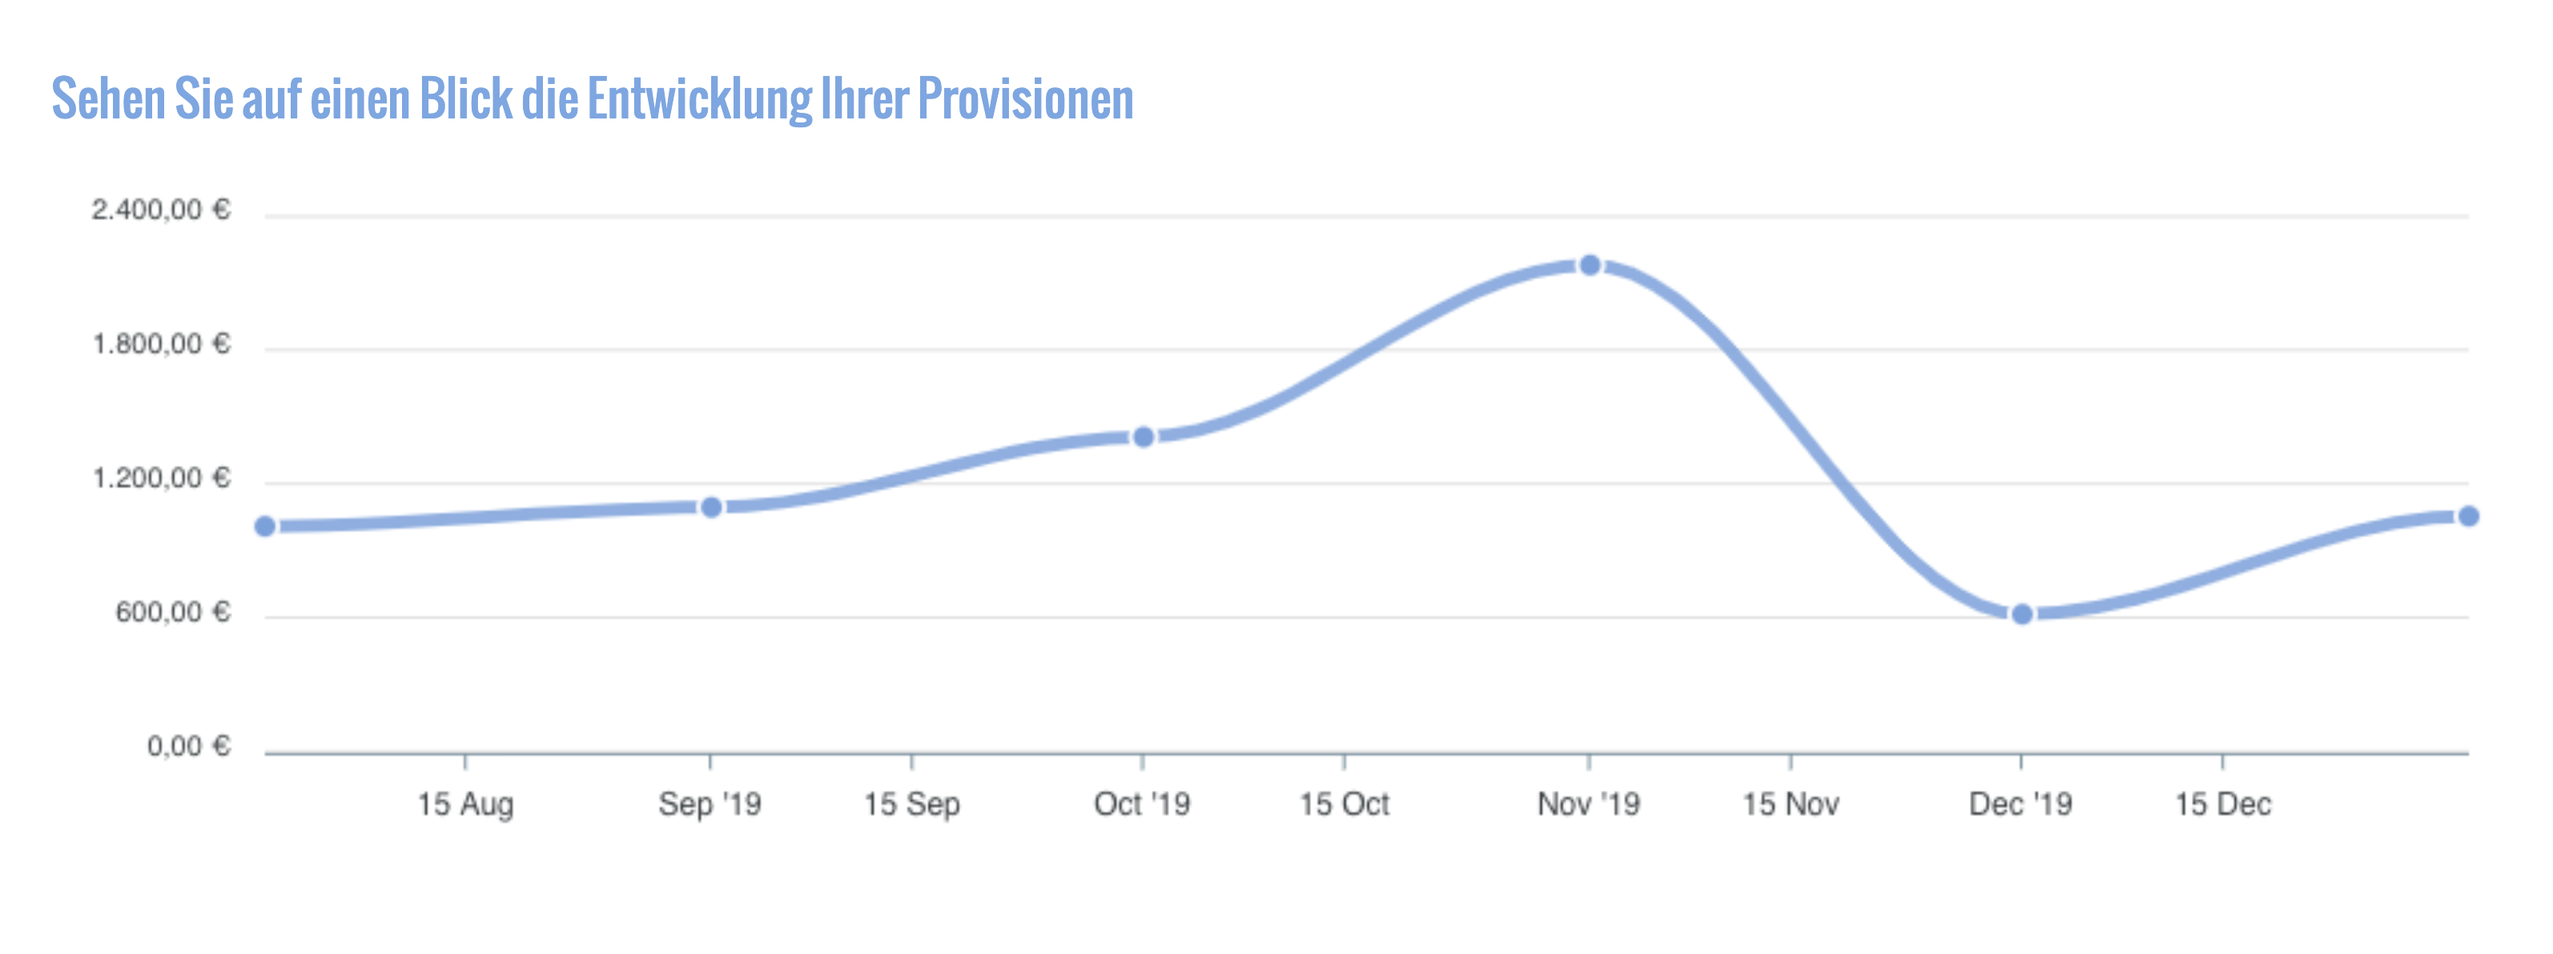
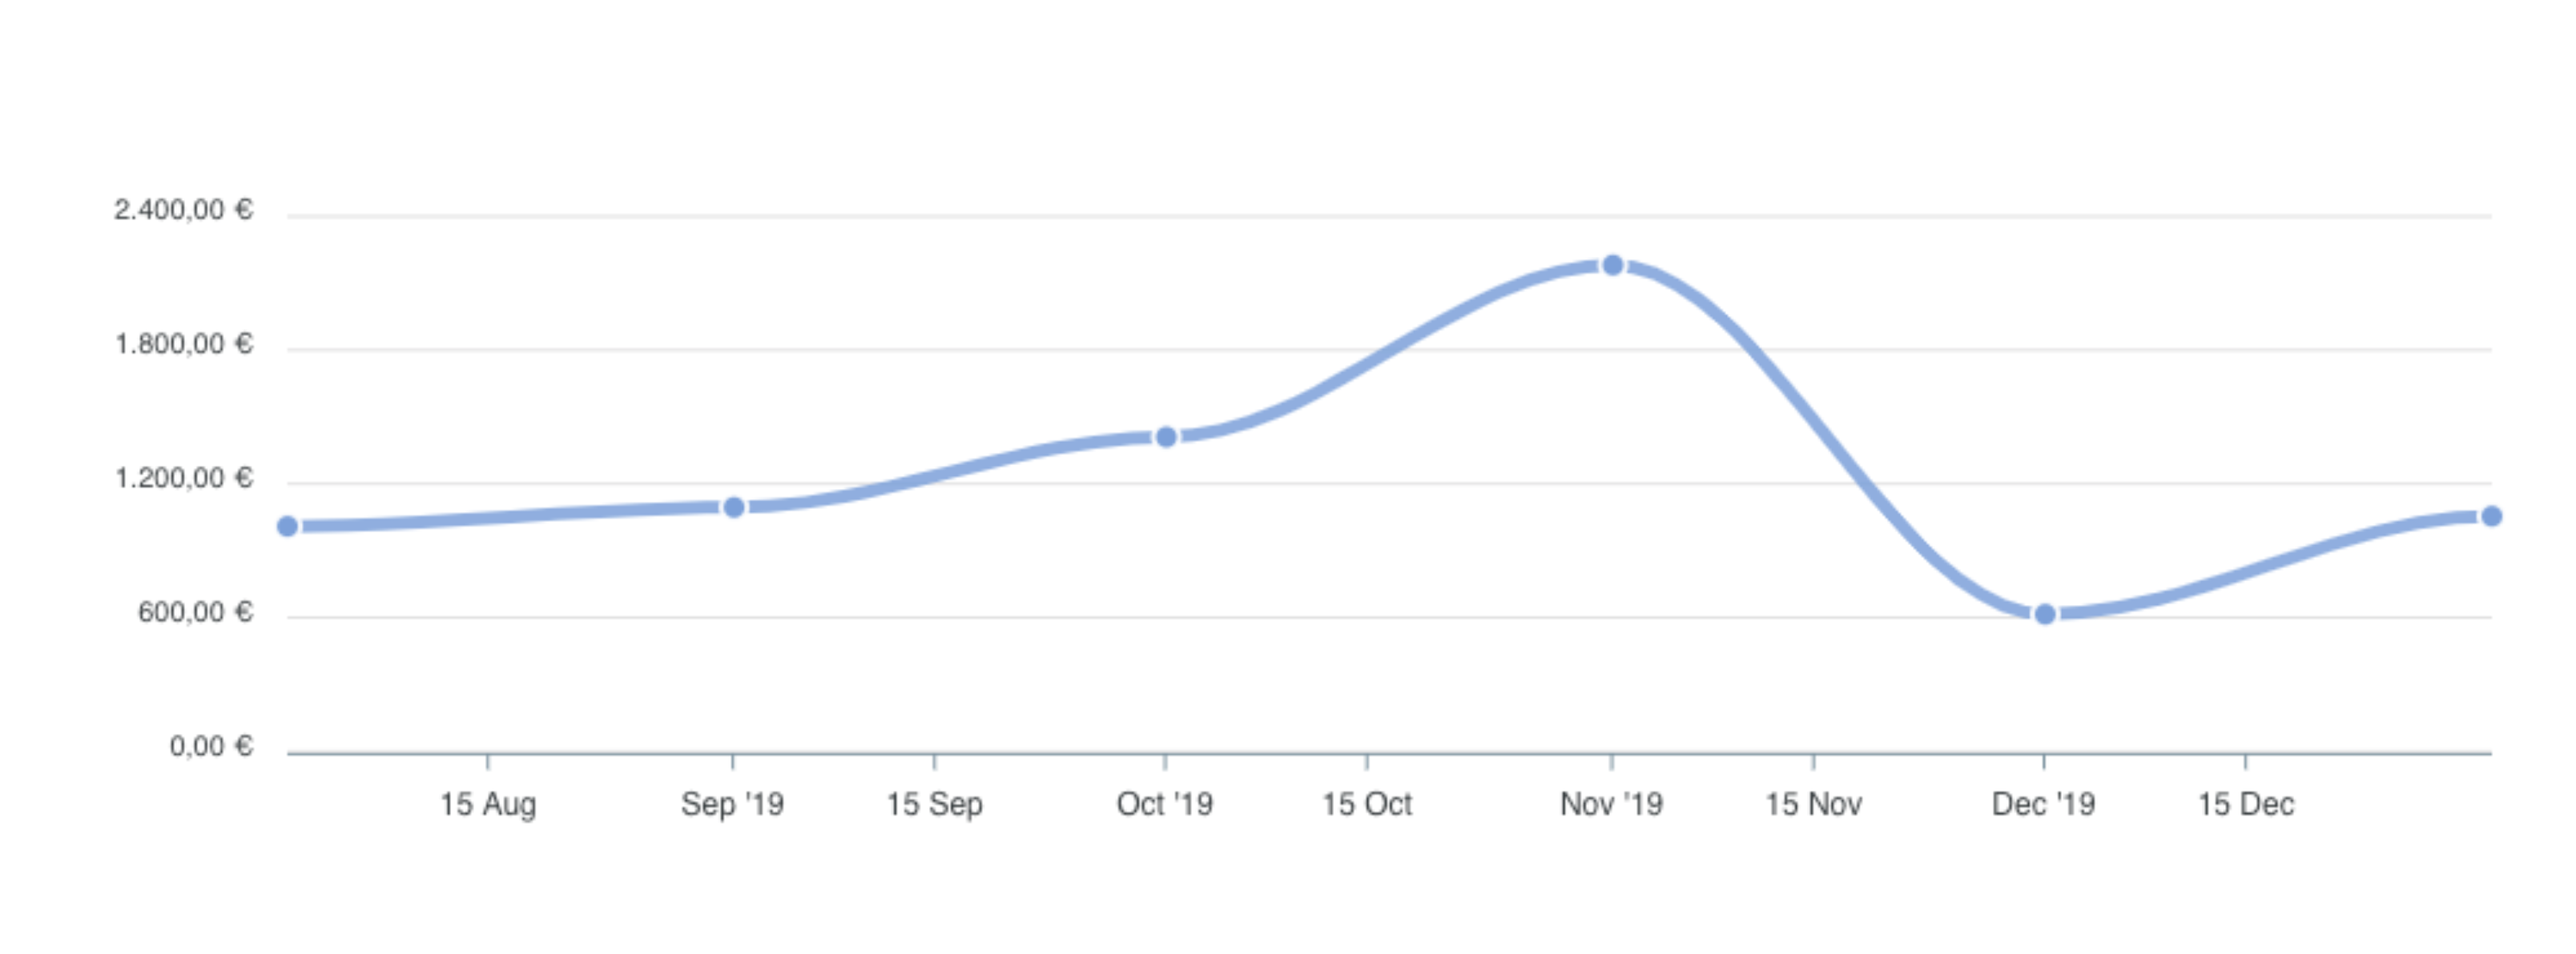
Change placeholder image

diff --git a/application/resources/views/dashboard/index.blade.php b/application/resources/views/dashboard/index.blade.php
@@ -11,7 +11,7 @@
         <vue v-cloak class="cloak-fade" data-is="investments-viewer" data-props='@json($vueData)' />
     @else
         @card
-            <div class="lead text-center text-muted">
+            <div class="lead text-muted">
                 Das Partner Cockpit ist die zentrale Anlaufstelle für Ihre Tätigkeit
                 als Partner. Sie können hier alle Aktivitäten Ihrer Kunden und Interessenten
                 sehen und erhalten Statistiken zum Verhalten Ihrer Kunden. Zudem stehen
@@ -20,6 +20,7 @@
                 und Tools für eine nahtlose digitale Integration.
             </div>
             <div>
+              <h4 class="mt-3 mb-0">Sehen Sie auf einen Blick die Entwicklung Ihrer Provisionen</h4>
                 <img
                     src="{{ url('/images/investment_placeholder.png') }}"
                     alt="Provisionsbeispiel"
